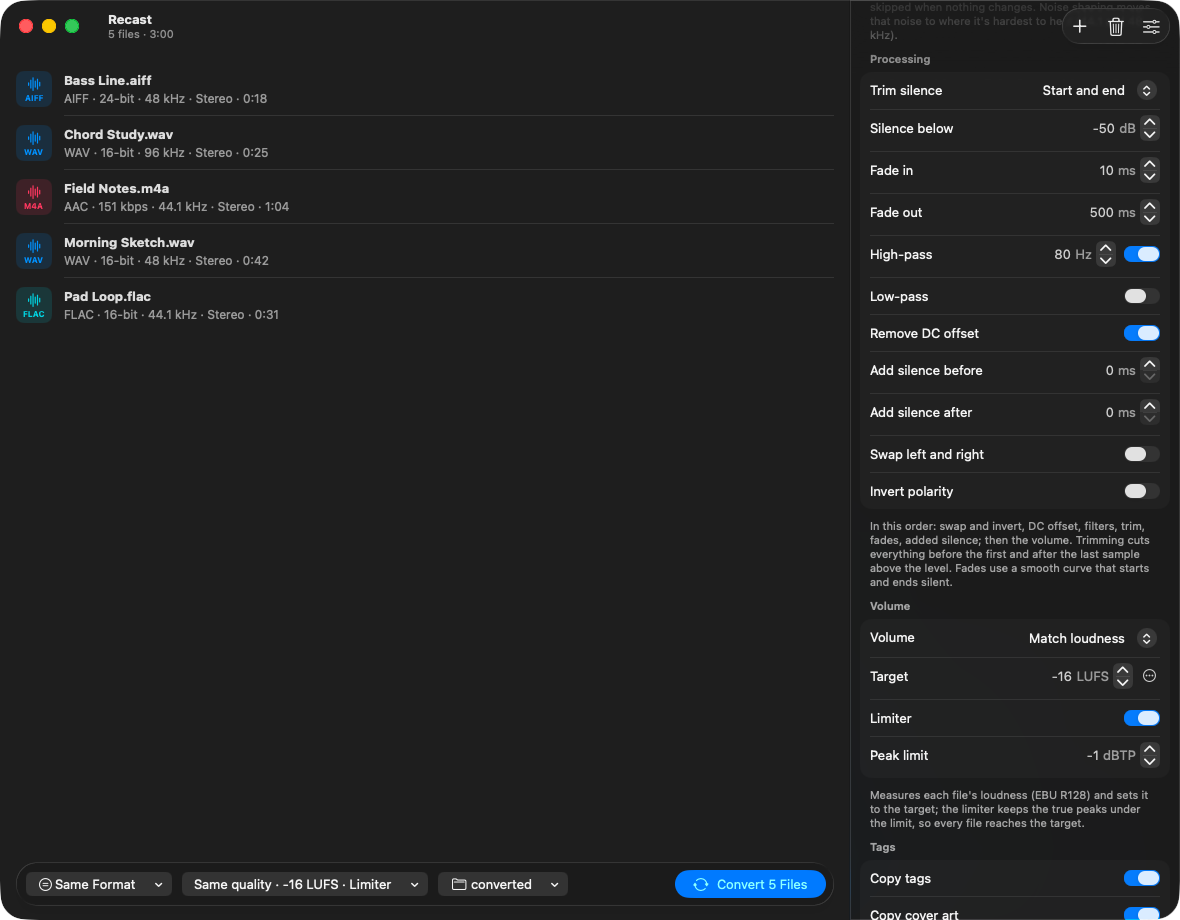
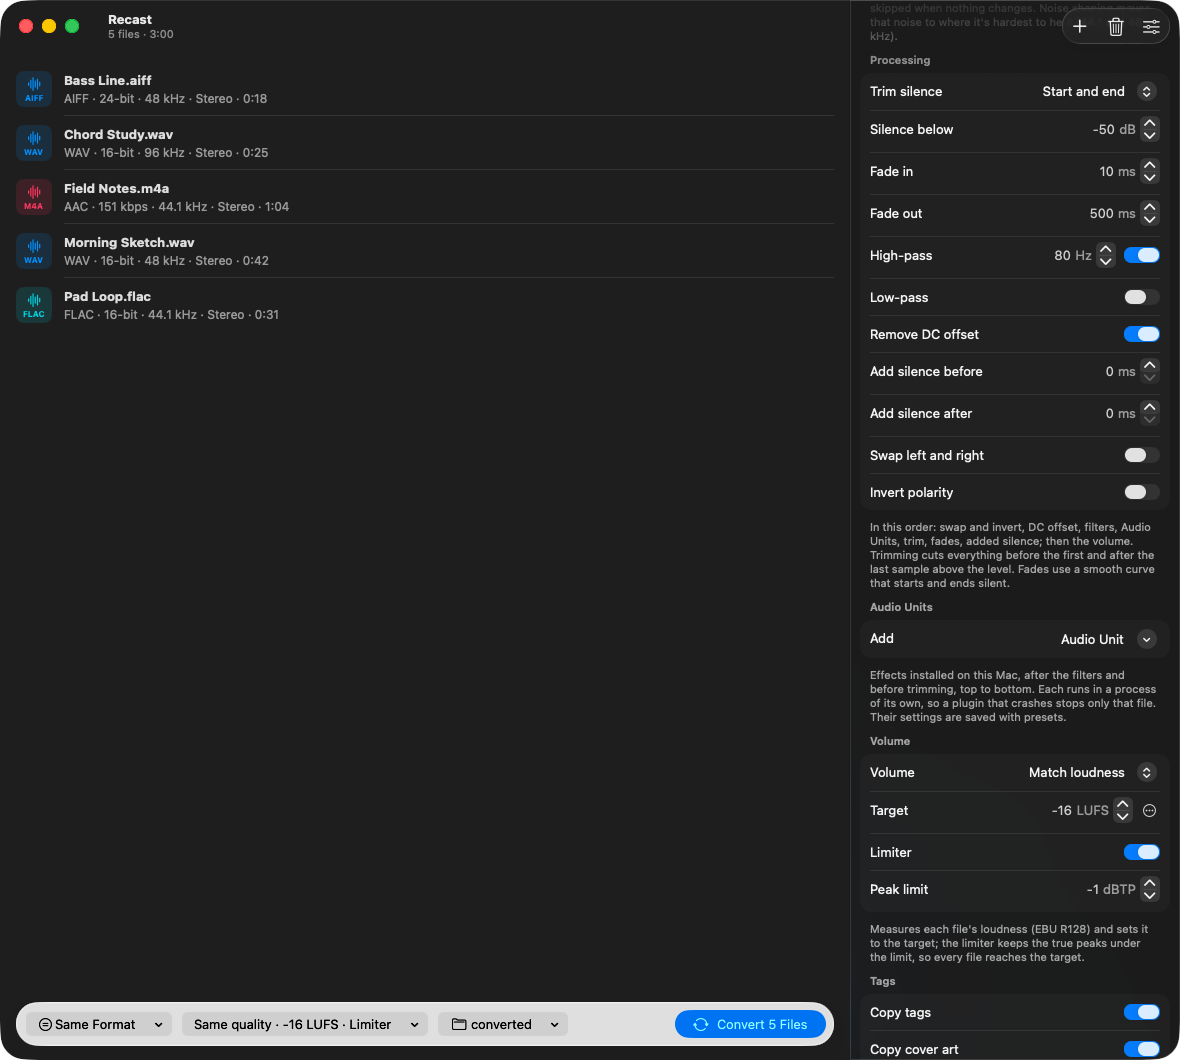
Show Audio Units in the README
- Screenshots of the Audio Units section (light and dark) and of a plugin's own
  window opened with Edit…, and the processing screenshots retaken now that the
  Audio Units section sits between Processing and Volume.
- Snapshot mode takes the Audio Units shot at the usual window height.

diff --git a/Sources/Recast/Snapshot.swift b/Sources/Recast/Snapshot.swift
@@ -93,6 +93,7 @@ enum Snapshot {
             if model.settings.plugins.count == 3 { model.settings.plugins[2].bypassed = true }
             model.settings.keepPluginTails = true
             model.loadInstalledEffects()
+            resize(1180, 760)
             await settle(300, for: "13-plugins", "13-plugins-dark")
             NotificationCenter.default.post(name: SettingsInspector.scrollRequest, object: "plugins")
             await settle(800, for: "13-plugins", "13-plugins-dark")

diff --git a/README.md b/README.md
@@ -122,6 +122,13 @@ with everything on).
 
 ### Audio Units
 
+<picture>
+  <source media="(prefers-color-scheme: light)" srcset="docs/screenshots/plugins.png">
+  <img src="docs/screenshots/plugins-dark.png" alt="Three of Apple's Audio Units in the chain, the reverb switched off, with effect tails kept">
+</picture>
+
+<img src="docs/screenshots/plugin-window.png" alt="Edit… opens the plugin's own window, here Apple's N-Band EQ" width="47%">
+
 **Add › Audio Unit** in the Audio Units section lists every effect installed on the Mac (Audio Units of the effect
 and music-effect types), by manufacturer. Each one in the list has **Edit…**, which opens the plugin's own window
 (or plain controls built from its parameters when it has none), an on/off switch, and a menu to move or remove it.
